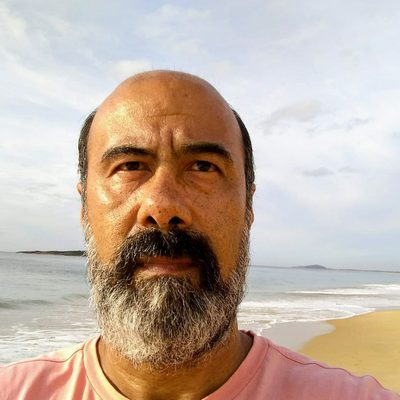
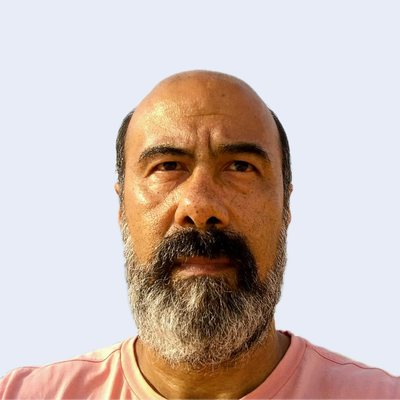
Padroniza as fotos da equipe com fundo azul-claro
Recorta cada pessoa da foto original em resolução máxima e aplica o
fundo #E8ECF7 da identidade do REME. O enquadramento passa a seguir o
rosto detectado, para que todos apareçam em escala parecida.

diff --git a/README.md b/README.md
@@ -26,7 +26,7 @@ O site é HTML estático, sem etapa de build. O GitHub Pages publica o que está
 
 ## Como atualizar
 
-- **Novo membro:** copie um bloco `<article class="person">` em `quemsomos.html`, dentro do grupo certo (Docentes ou Discentes), e salve a foto quadrada (400 × 400 px, JPG) em `assets/img/equipe/`.
+- **Novo membro:** copie um bloco `<article class="person">` em `quemsomos.html`, dentro do grupo certo (Docentes ou Discentes), e salve a foto quadrada (400 × 400 px, JPG) em `assets/img/equipe/`. Todas as fotos usam fundo liso azul-claro (`#E8ECF7`): no Mac, o app Fotos recorta a pessoa com "Copiar objeto"; cole sobre um quadrado dessa cor, com cabeça e ombros enquadrados como nas demais.
 - **Nova edição da Oficina:** copie um bloco `<article class="edition">` em `oficinas.html`.
 - **Novo edital:** coloque o PDF em `pdfs/` e copie um item `<li class="card doc">` em `editais.html`. Se houver chamada aberta, troque o aviso amarelo do topo.
 - **Fotos:** reduza para no máximo 1600 px no lado maior antes de enviar. Fotos de câmera com 4 a 5 MB deixam o site lento.
